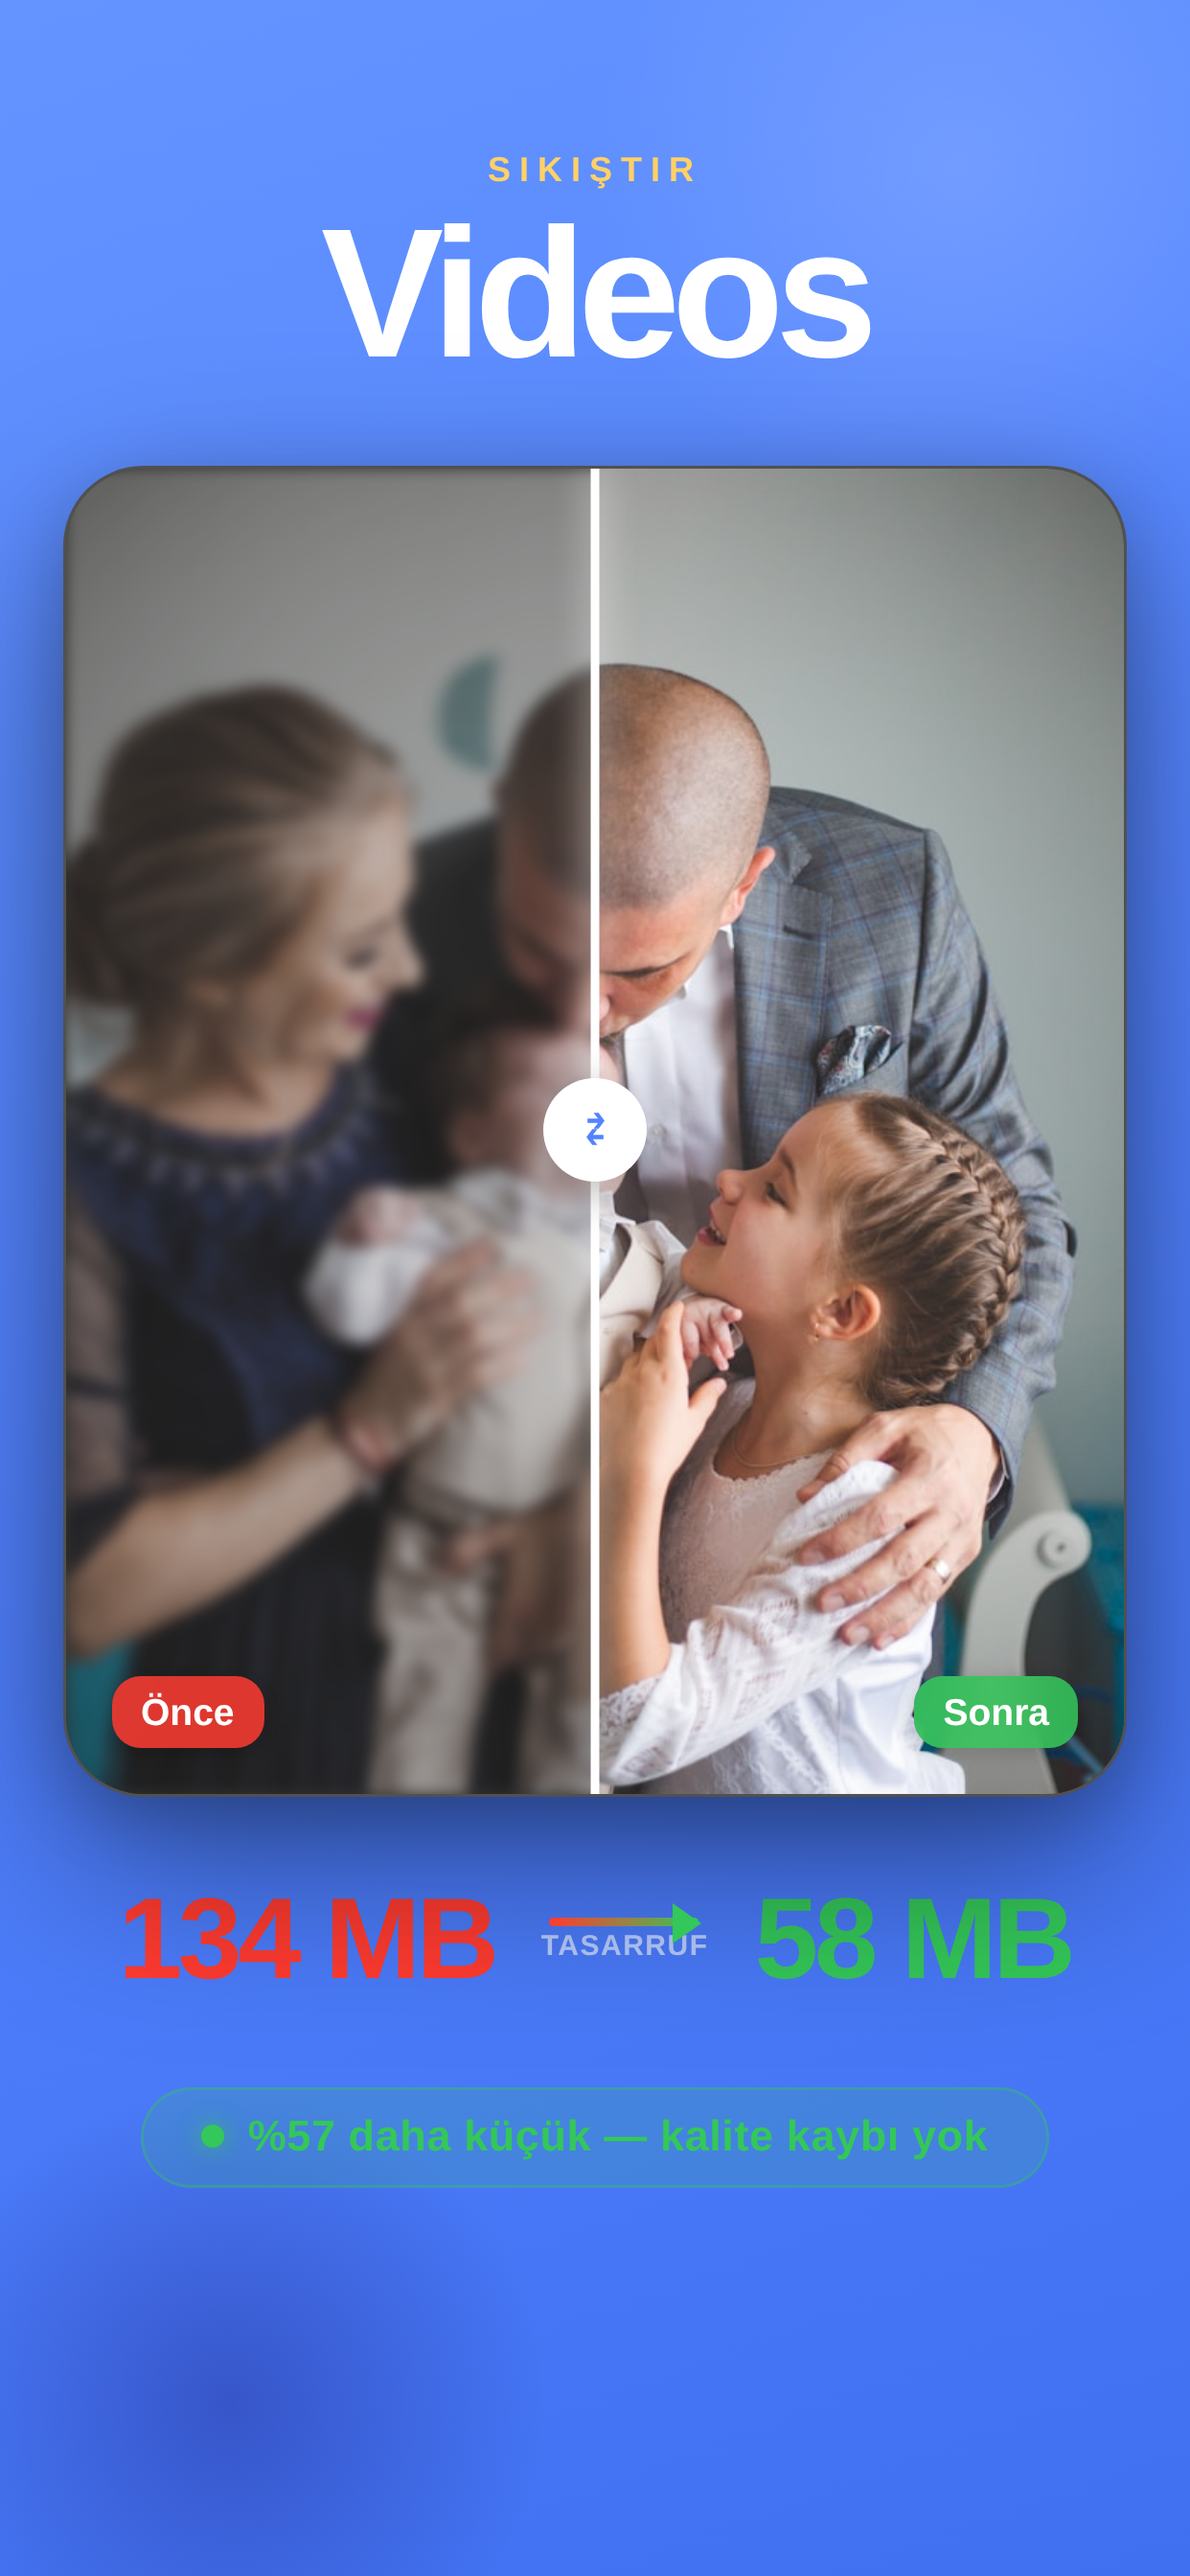
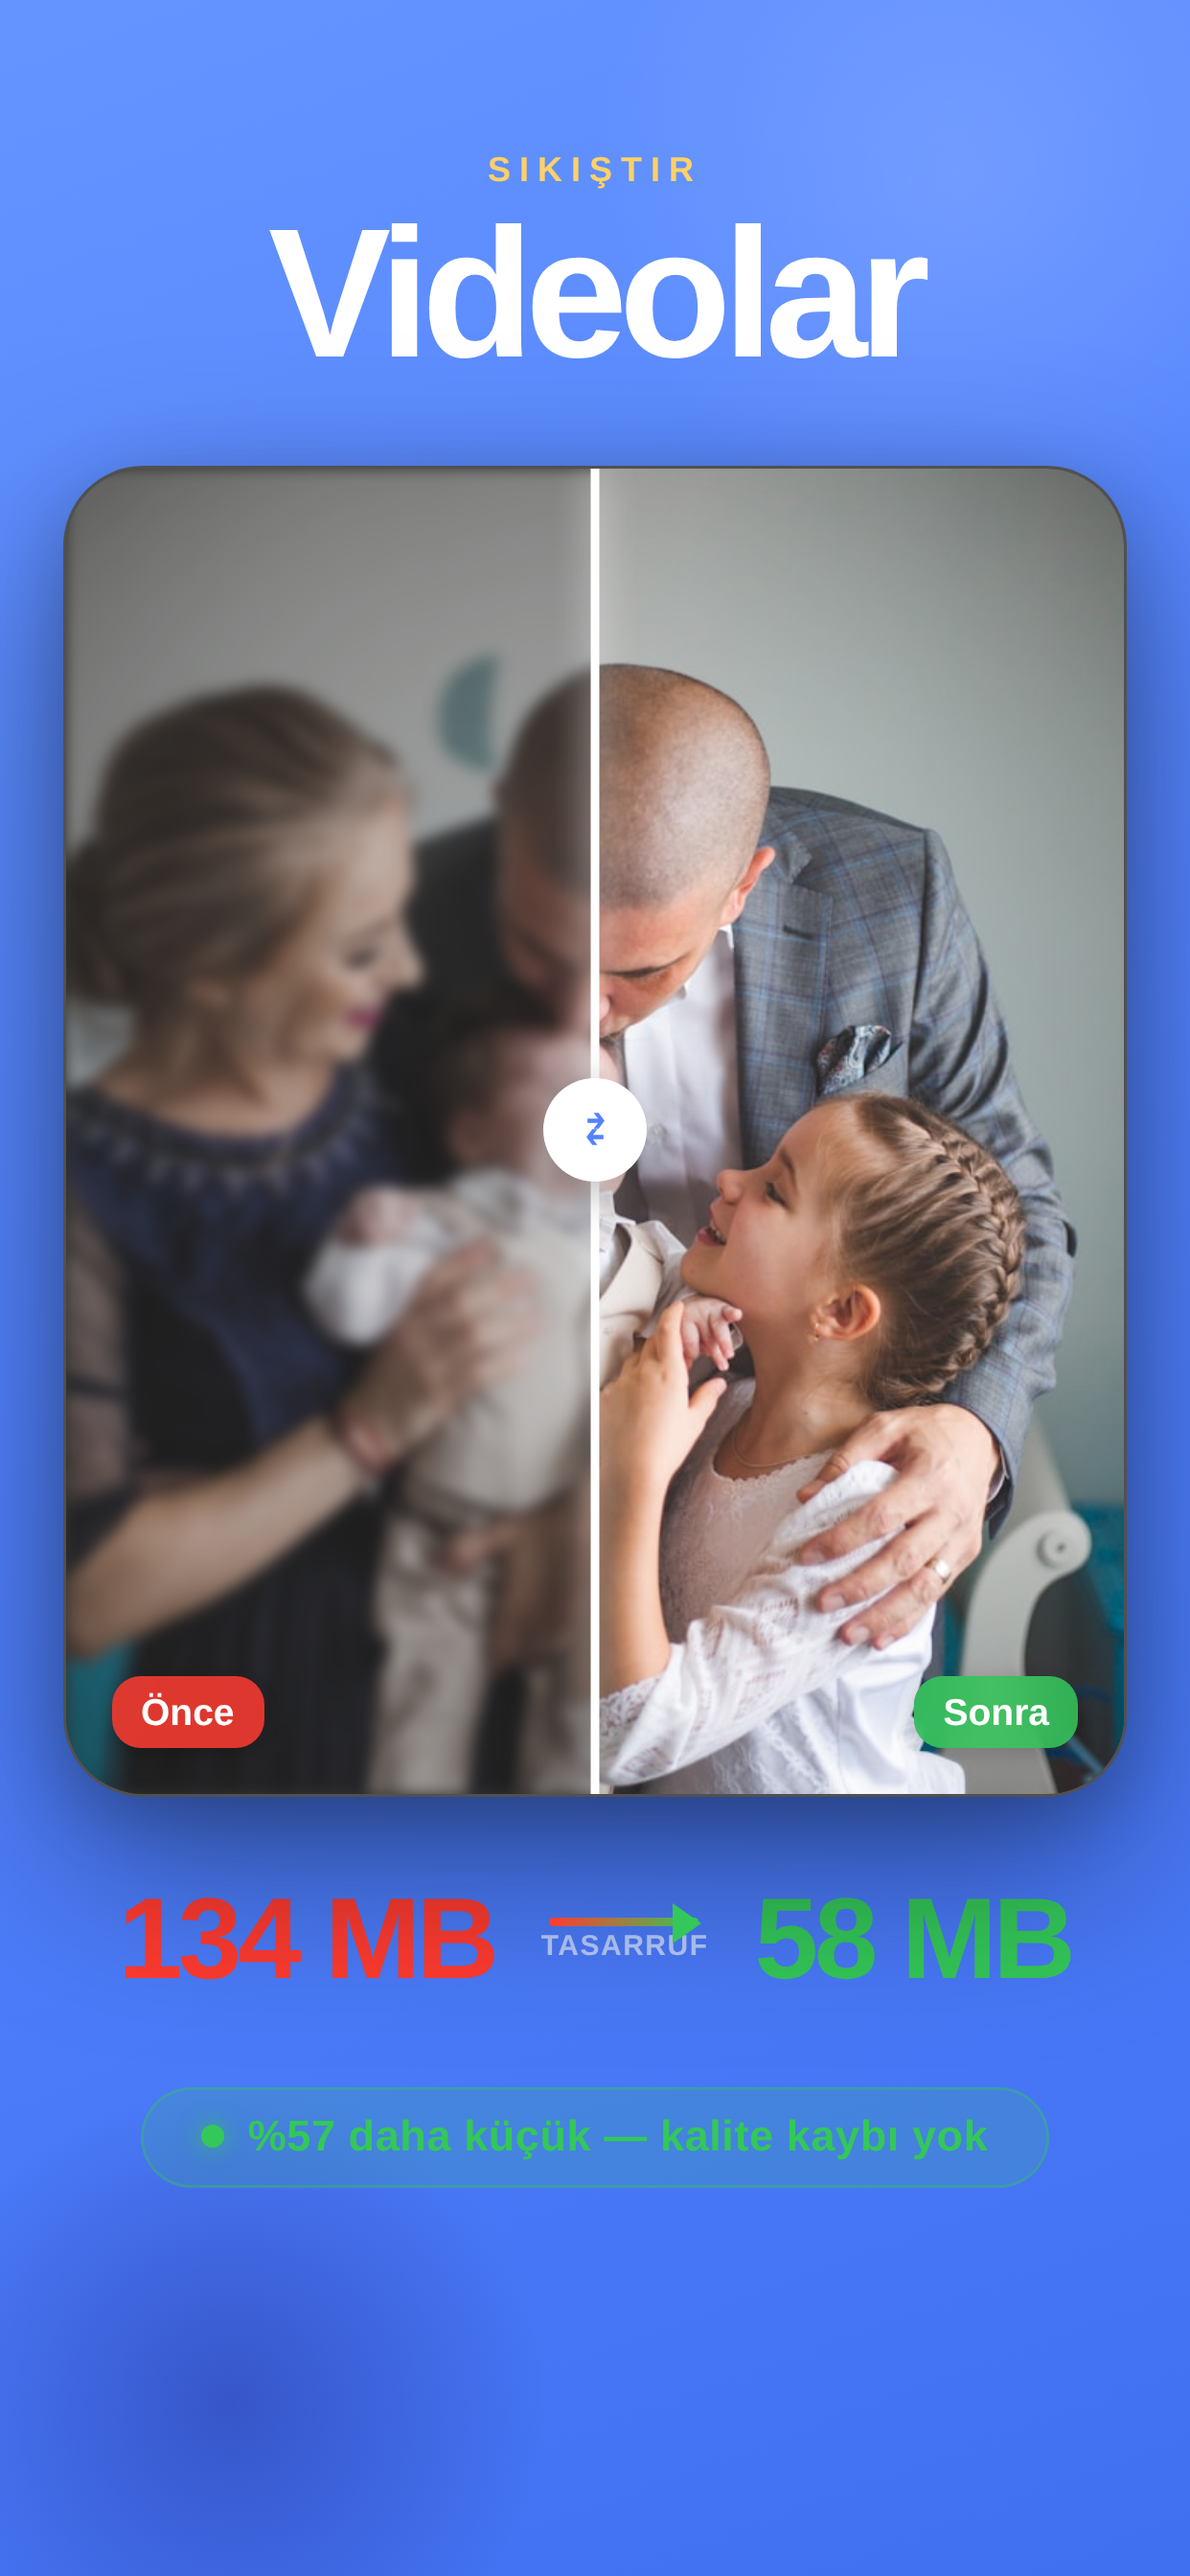
fix: alle Slide-Texte korrekt — slide1 DE/EN/TR neu, slide4_tr Videos→Videolar, slide5_tr Kopya-Gruppen gefunden→kopya grubu bulundu

Changed region(s): [[0.2142, 0.0625, 0.7955, 0.1562]]

diff --git a/frontend/assets/screenshot_slide_tr.html b/frontend/assets/screenshot_slide_tr.html
@@ -172,7 +172,7 @@
     <div class="features">
       <div class="feature-row">
         <div class="feature-icon">📸</div>
-        <span class="feature-text">Foto-Kopyalar & ähnliche Bilder</span>
+        <span class="feature-text">Foto Kopyaları & Benzer Görüntüler</span>
         <div class="feature-check">✓</div>
       </div>
       <div class="feature-row">

diff --git a/frontend/assets/screenshot_slide_en.html b/frontend/assets/screenshot_slide_en.html
@@ -172,7 +172,7 @@
     <div class="features">
       <div class="feature-row">
         <div class="feature-icon">📸</div>
-        <span class="feature-text">Foto-Duplicates & ähnliche Bilder</span>
+        <span class="feature-text">Photo Duplicates & Similar Photos</span>
         <div class="feature-check">✓</div>
       </div>
       <div class="feature-row">

diff --git a/frontend/assets/screenshot_slide5_tr.html b/frontend/assets/screenshot_slide5_tr.html
@@ -282,7 +282,7 @@
     <!-- Bottom counter -->
     <div class="counter">
       <div class="counter-dot"></div>
-      <span class="counter-text">14 Kopya-Gruppen gefunden</span>
+      <span class="counter-text">14 kopya grubu bulundu</span>
     </div>
 
   </div>

diff --git a/frontend/assets/screenshot_slide4_tr.html b/frontend/assets/screenshot_slide4_tr.html
@@ -183,7 +183,7 @@
 
   <div class="inner">
     <div class="eyebrow">Sıkıştır</div>
-    <div class="title">Videos</div>
+    <div class="title">Videolar</div>
 
     <!-- Split image -->
     <div class="split-card">
